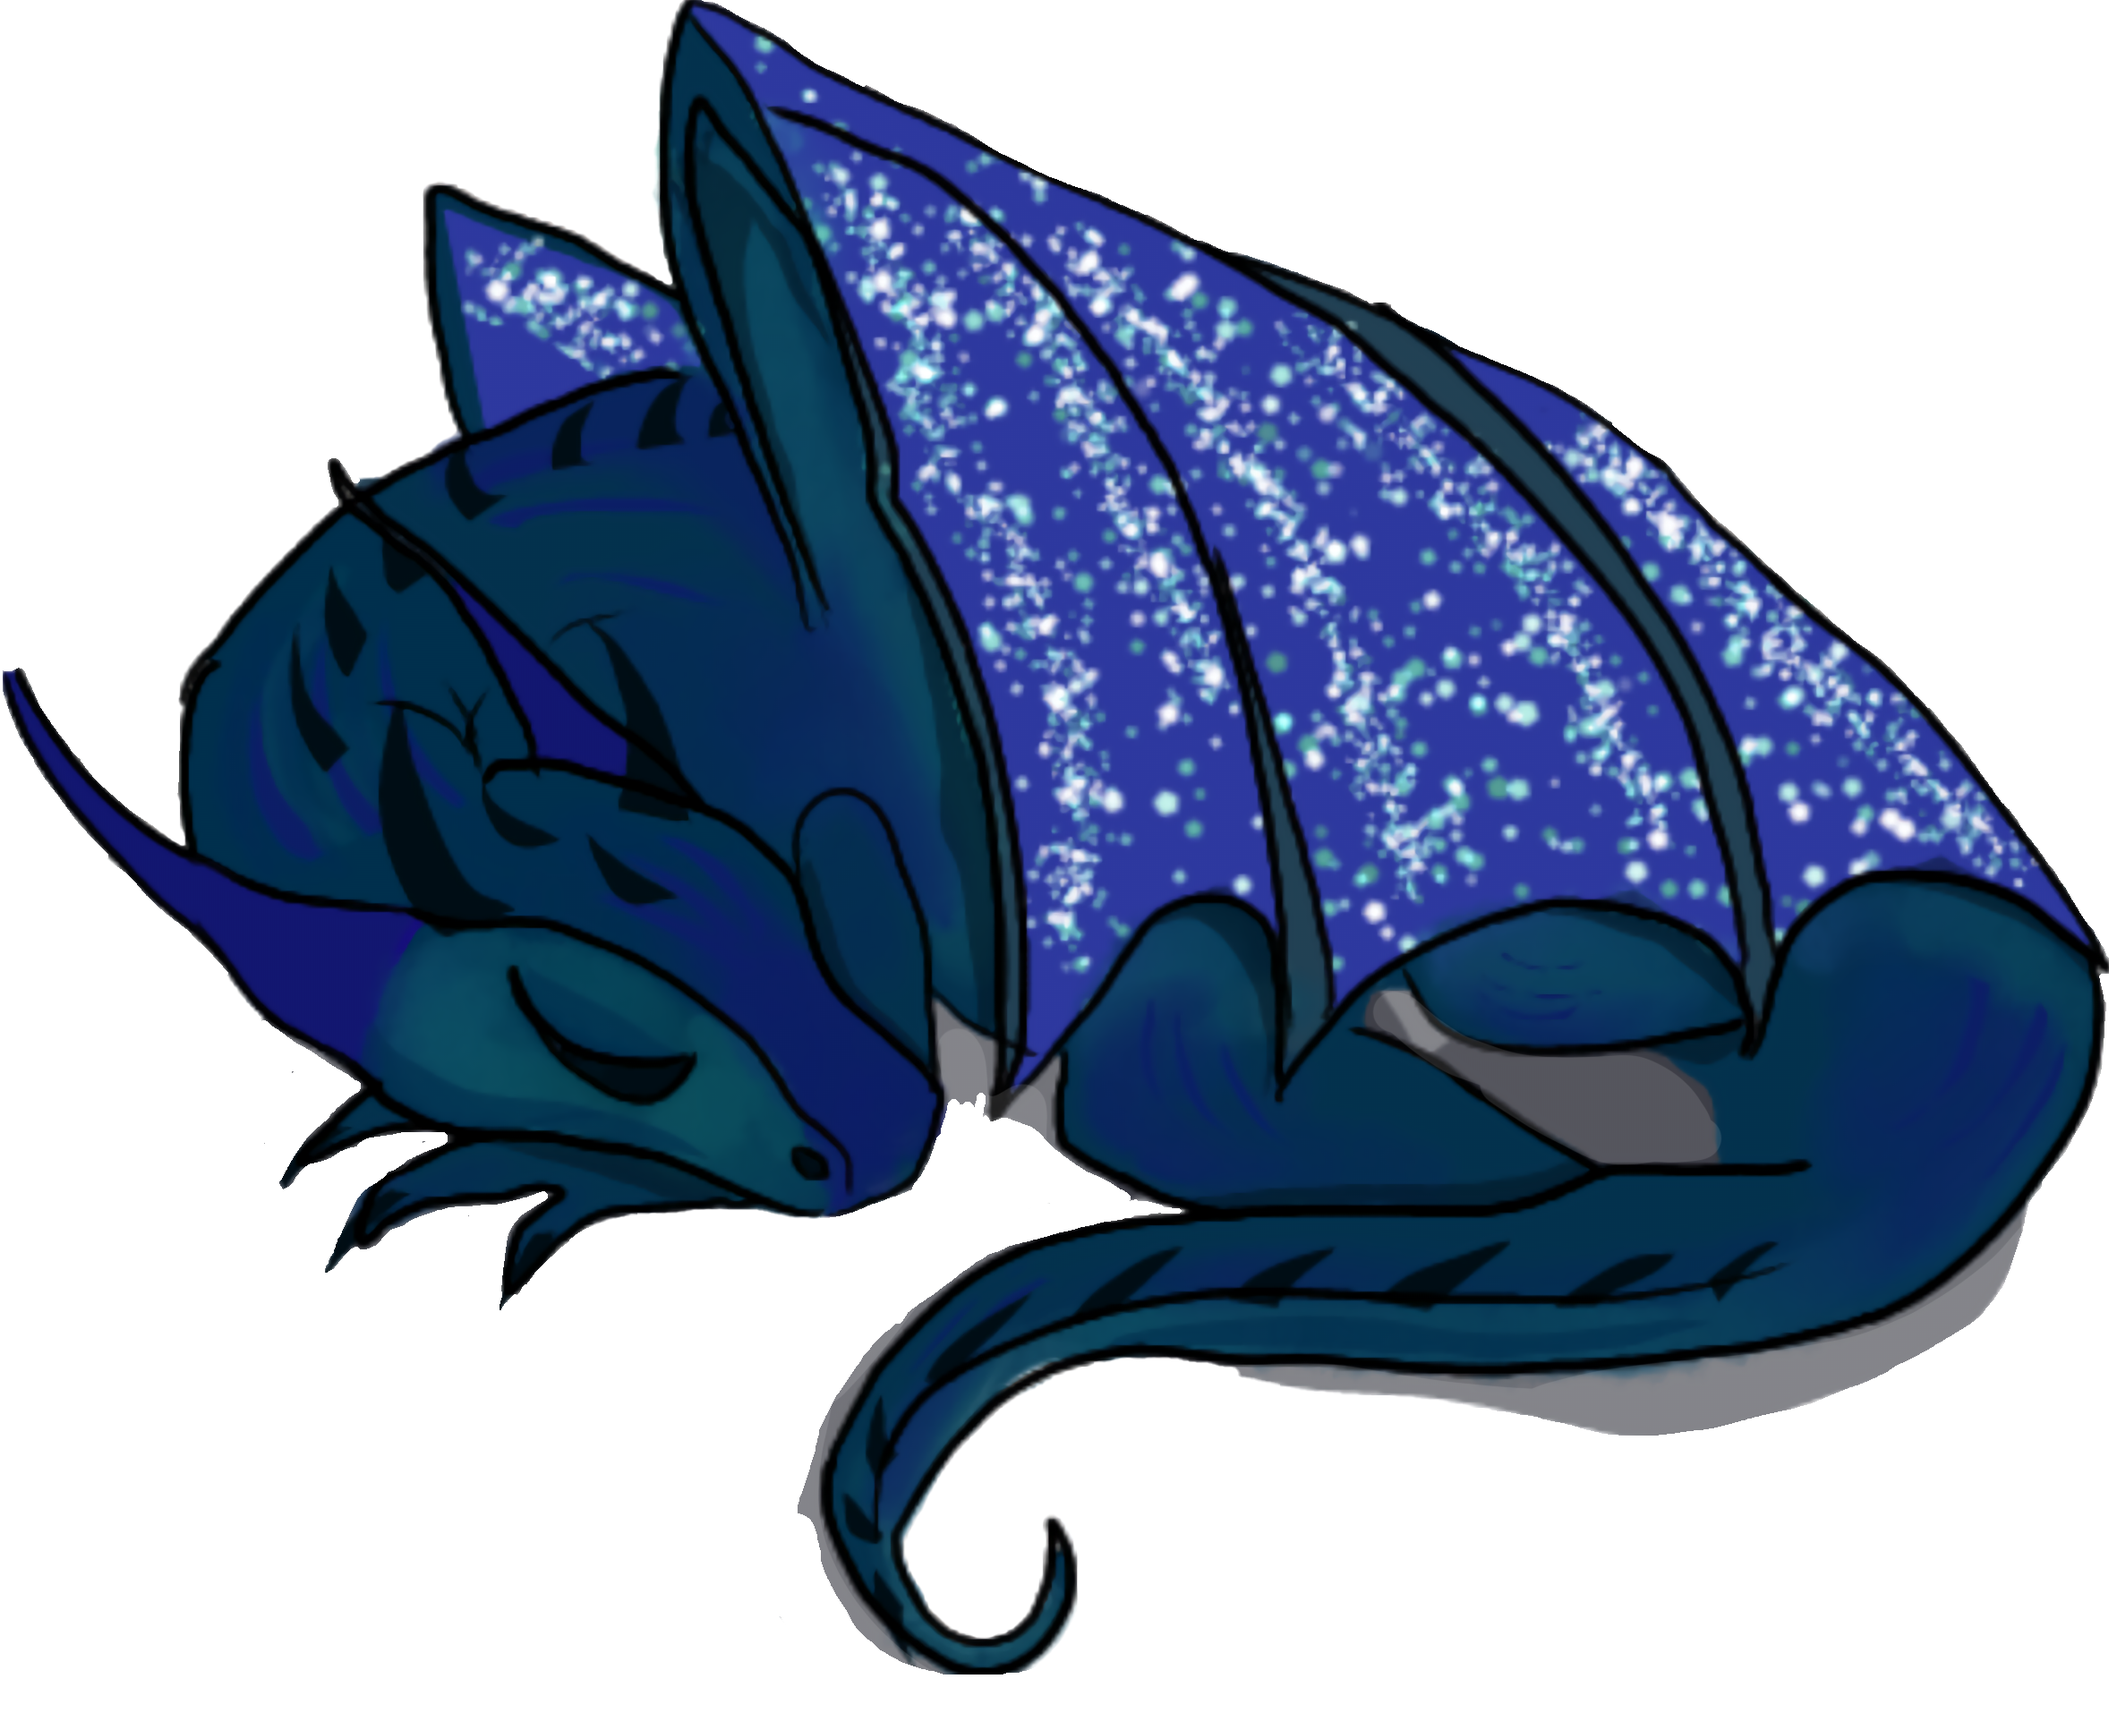
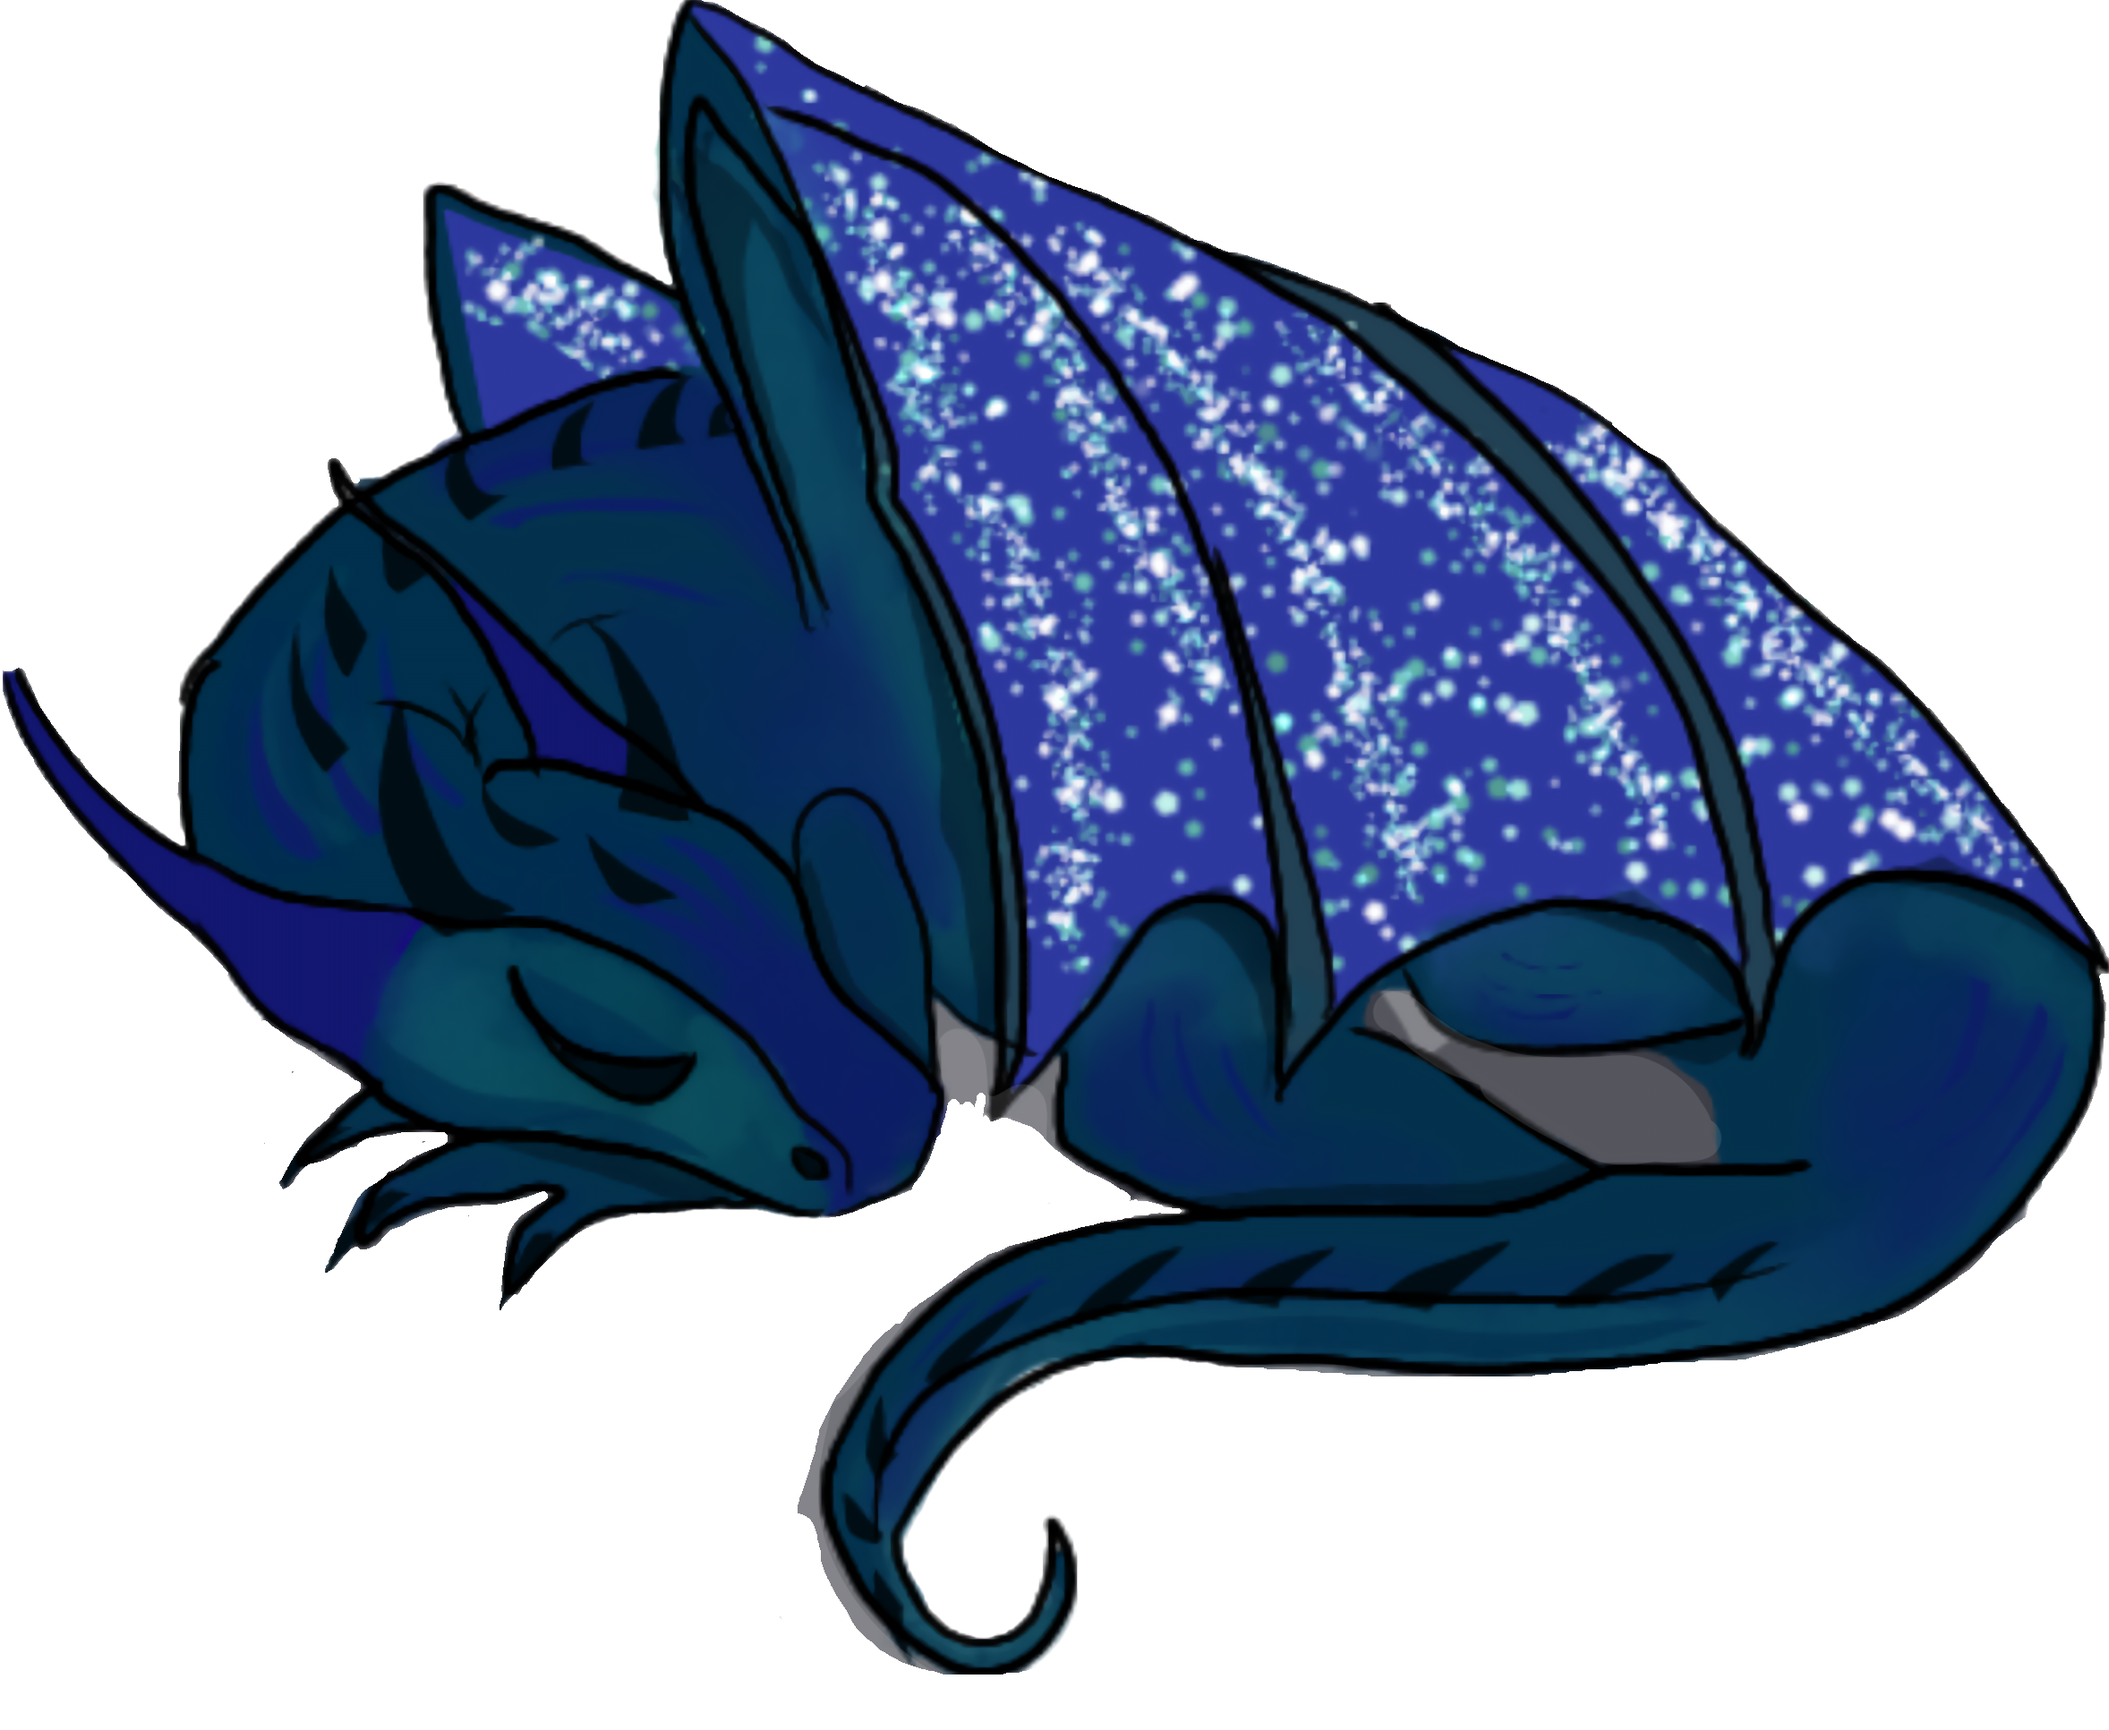
Change font to HarryPotter style in recipes renderer + Adjust Orders HUD postions and style + Clean up assets

Changed region(s): [[0.5887, 0.7139, 0.9605, 0.8381]]

diff --git a/src/rendering/hudRendering.js b/src/rendering/hudRendering.js
@@ -3,6 +3,10 @@ import itemAssets from "../data/itemsAssets.js";
 import player from "../entities/player.js";
 import gameData from "../data/gameData.js";
 import heart from "../assets/items/heart.png";
+import essence from "../assets/items/essence.png";
+
+const essenceImg = new Image();
+essenceImg.src = essence;
 
 const heartImg = new Image();
 heartImg.src = heart;
@@ -13,46 +17,48 @@ export function drawHUD(ctx, canvas) {
   // ESSENCE TEXT
 
   ctx.fillStyle = "white";
-  ctx.font = "36px HarryPotter";
+  ctx.font = "50px HarryPotter";
   ctx.textAlign = "right";
   ctx.textBaseline = "middle";
 
-  ctx.fillText(`Essence: ${gameData.essence}`, canvas.width - 40, 45);
+  ctx.drawImage(essenceImg, canvas.width - 220, 20, 100, 70);
+  ctx.fillText(`: ${gameData.essence}`, canvas.width - 40, 60);
 
   // LIVES
 
   ctx.textAlign = "left";
+  ctx.drawImage(heartImg, 30, 20, 100, 70);
 
-  ctx.fillText(`Lives: ${player.lives}`, 40, 45);
+  ctx.fillText(`: ${player.lives}`, 160, 60);
 
   // ORDERS PANEL
 
-  ctx.fillStyle = "rgba(0, 0, 0, 0.4)";
+  ctx.fillStyle = "rgba(0, 0, 0, 0.2)";
 
-  ctx.fillRect(canvas.width - 260, canvas.height - 320, 240, 280);
+  ctx.fillRect(canvas.width - 400, canvas.height - 180, 370, 180);
 
   ctx.fillStyle = "white";
   ctx.textAlign = "center";
 
-  ctx.fillText("Orders", canvas.width - 140, canvas.height - 280);
+  ctx.fillText("Orders", canvas.width - 215, canvas.height - 200);
 
-  const startX = canvas.width - 210;
-  const startY = canvas.height - 240;
+  const startX = canvas.width - 380;
+  const startY = canvas.height - 100;
 
   activeOrders.forEach((order, index) => {
     const asset = itemAssets[order.recipe];
 
     if (!asset || !asset.sprite.complete) return;
 
-    const x = startX;
-    const y = startY + index * 70;
+    const x = startX + index * 115;
+    const y = startY;
 
-    ctx.drawImage(asset.sprite, x, y, 60, 60);
+    ctx.drawImage(asset.sprite, x, y, 100, 100);
 
     const ratio = order.timeRemaining / order.maxTime;
 
-    const centerX = x + 120;
-    const centerY = y + 30;
+    const centerX = x + 50;
+    const centerY = y - 35;
 
     const radius = 15;
 

diff --git a/src/data/orders.js b/src/data/orders.js
@@ -6,6 +6,16 @@ export const activeOrders = [
     timeRemaining: 35000,
     maxTime: 45000,
   },
+  // {
+  //   recipe: RECIPES.DragonPoison,
+  //   timeRemaining: 35000,
+  //   maxTime: 45000,
+  // },
+  // {
+  //   recipe: RECIPES.ManegroPotion,
+  //   timeRemaining: 35000,
+  //   maxTime: 45000,
+  // },
 ];
 
 export const MAX_ORDERS = 3;

diff --git a/src/rendering/recipesRenderer.js b/src/rendering/recipesRenderer.js
@@ -11,7 +11,7 @@ export function drawRecipesMenu(ctx, canvas) {
   // title
 
   ctx.fillStyle = "white";
-  ctx.font = "60px serif";
+  ctx.font = "60px HarryPotter";
   ctx.textAlign = "center";
 
   ctx.fillText("Recipes", canvas.width / 2, 100);
